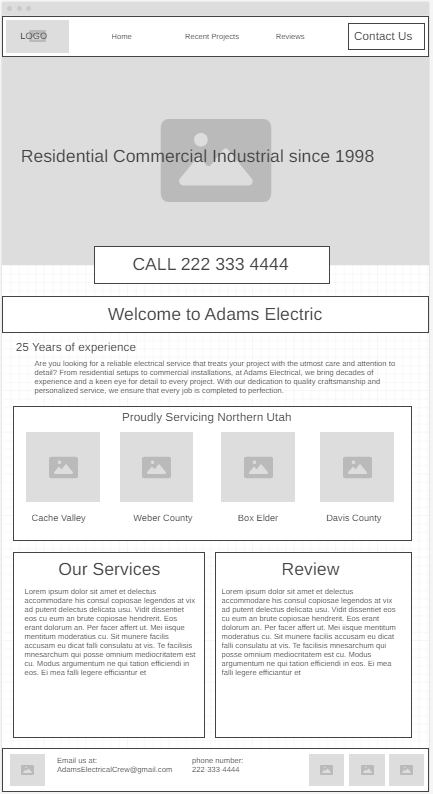
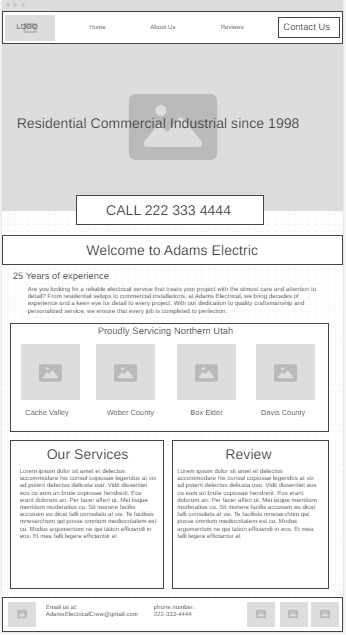
updated the site plan for page 2 and page 3

Changed region(s): [[0.0, 0.2992, 1.0, 1.0], [0.0, 0.0, 1.0, 0.0898], [0.0289, 0.1795, 0.8671, 0.2094]]

diff --git a/site-plan.html b/site-plan.html
@@ -155,27 +155,22 @@
       <h2>
         Wireframes
         <!-- https://wireframe.cc/Ldvbay -->
+        <!-- https://wireframe.cc/xK5fwP -->
       </h2>
       <p>
         Create three wireframes for your site. One for each page and list them here</p>
 
       <h3>Home</h3>
-      <p>         
-        [Any additional details about home that the wireframe does not make clear]
-      </p>
-      <img src="#" alt="home page wireframe">
+      <img src="images/Adams Electric Site Plan.PNG" alt="home page wireframe">
 
       <h3>About Us</h3>
-      <p>         
-        [Any additional details about page 2 that the wireframe does not make clear]
-      </p>
-      <img src="#" alt="page 2 wireframe">
+      <img src="images/Adams Electric Site Plan - About Us.PNG" alt="About us wireframe">
 
       <h3>Contact Us</h3>
       <p>         
-        [Any additional details about page 3 that the wireframe does not make clear]
+        [This page will include a sendable form that allows others to contact us.]
       </p>
-      <img src="#" alt="page 3 wireframe">
+      <img src="images/Adams Electric Site Plan - Contact Us.PNG" alt="Contact Us wireframe">
     </main>
   </body>
 
